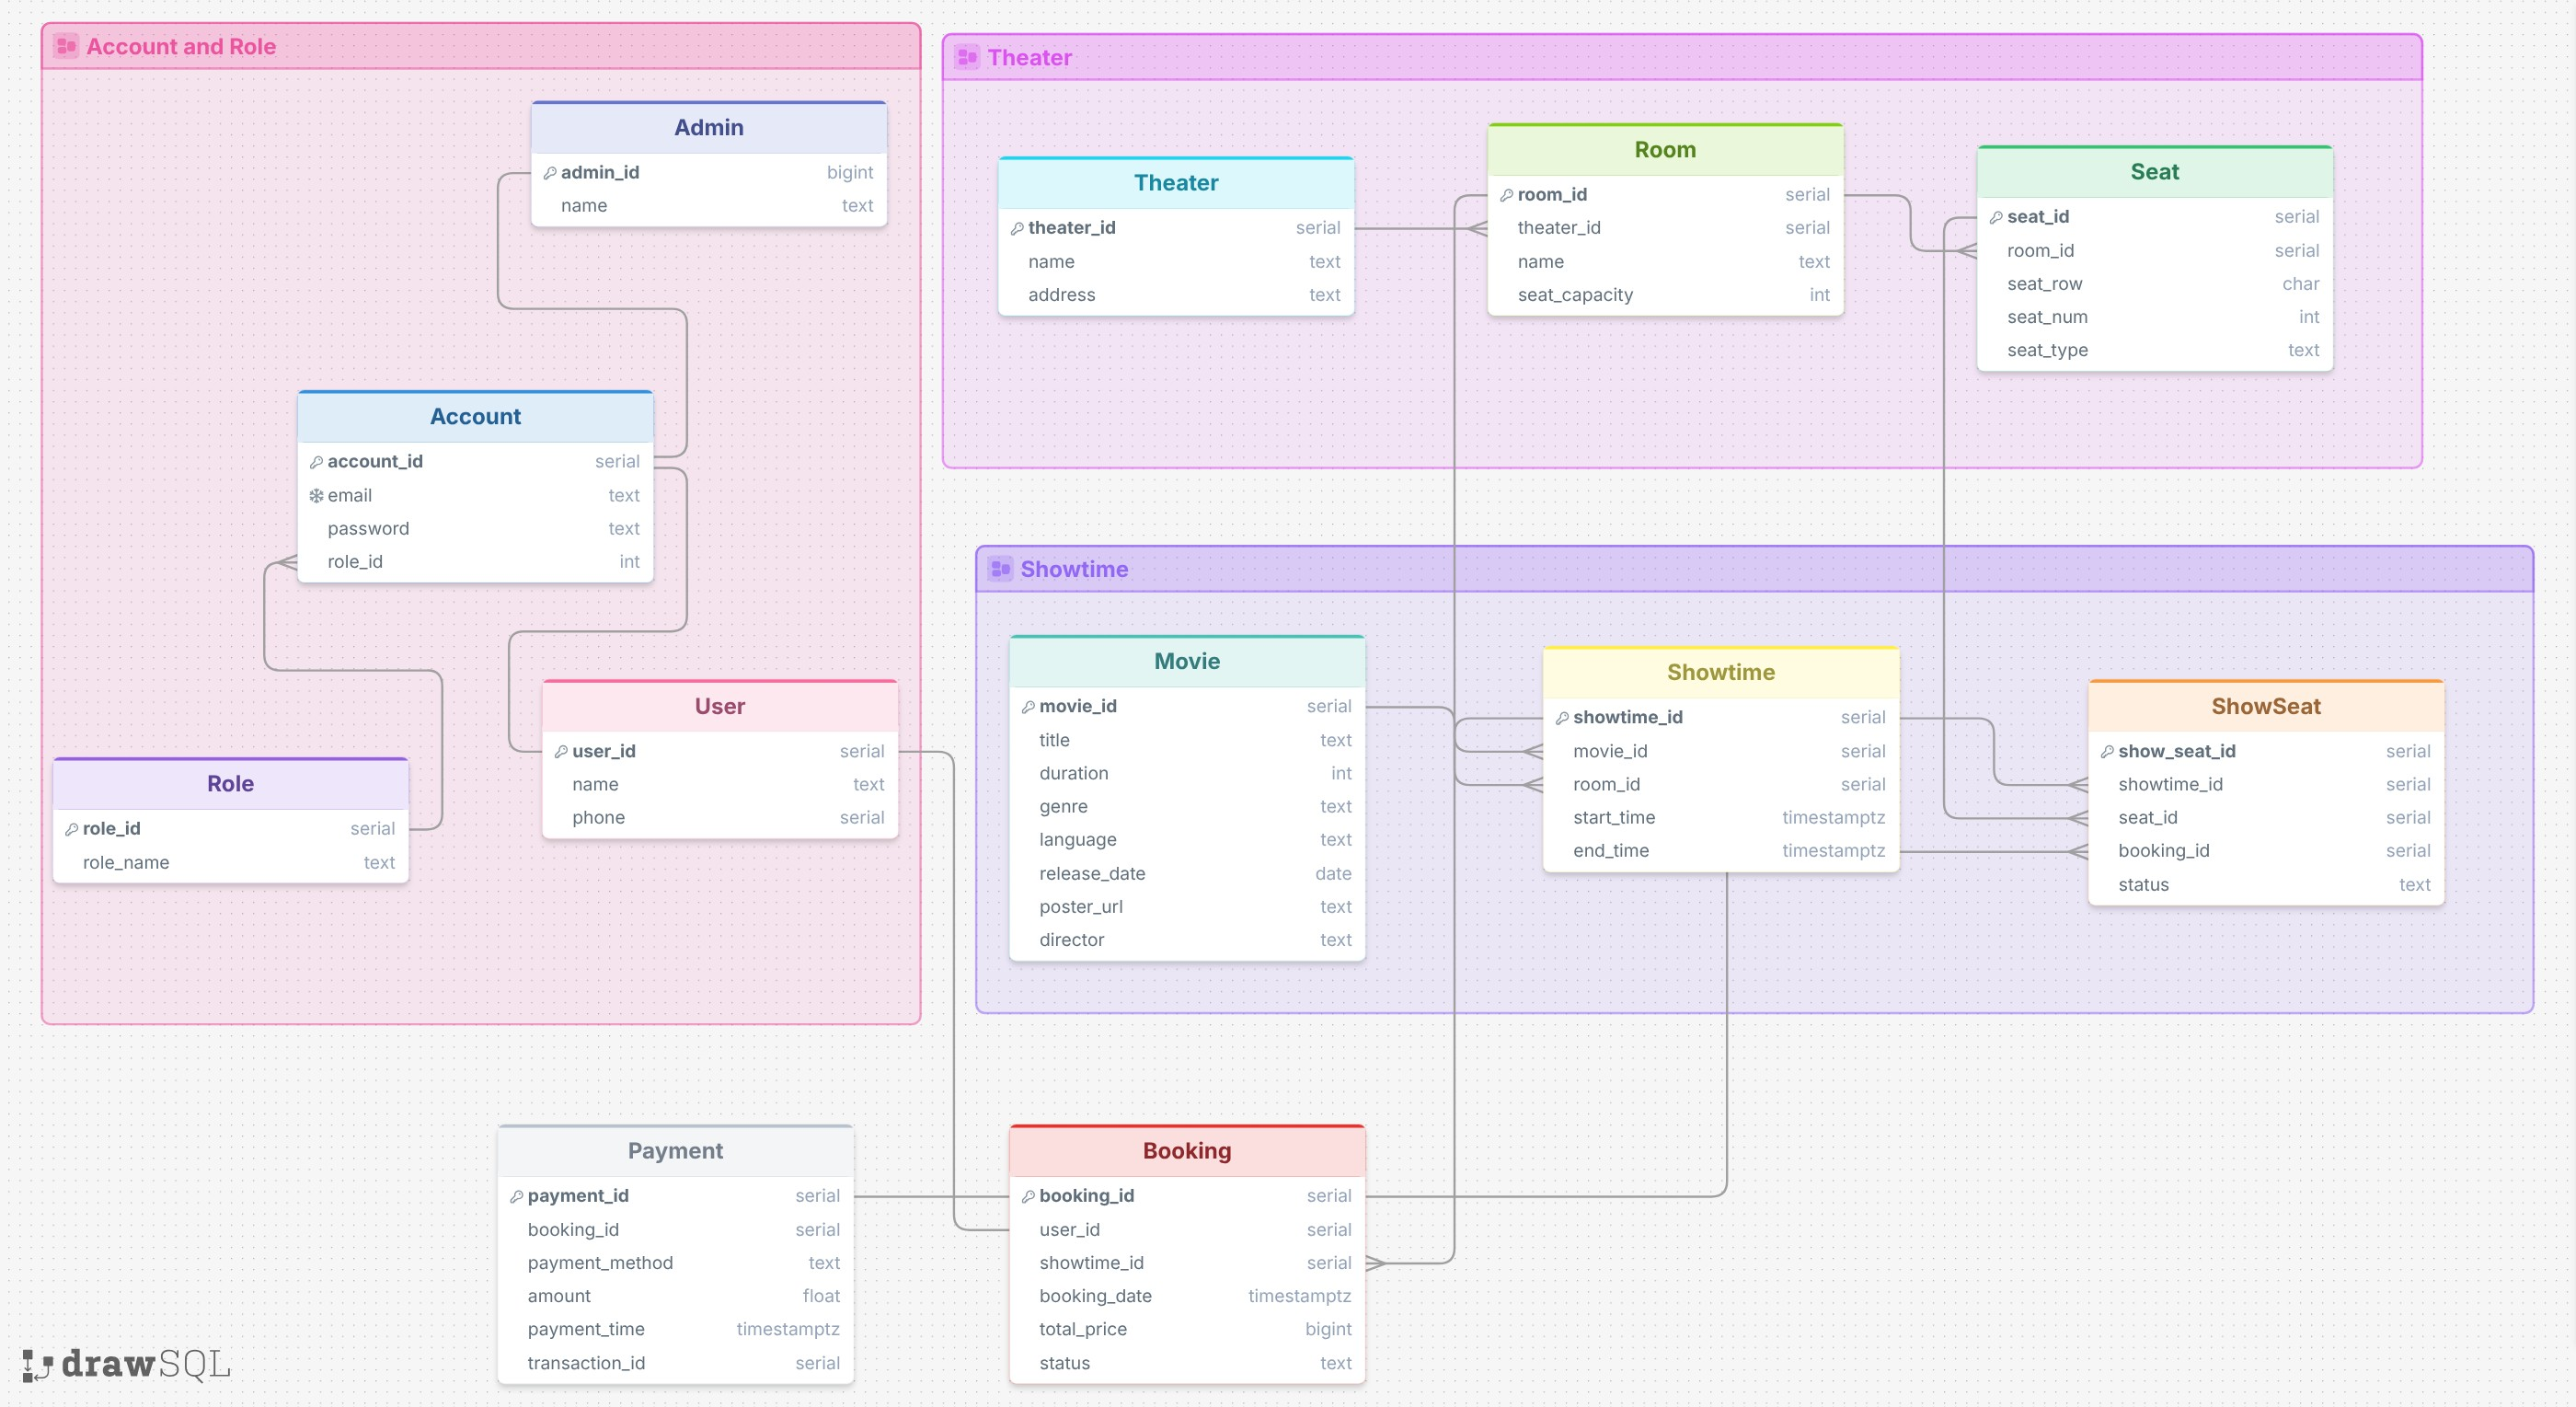
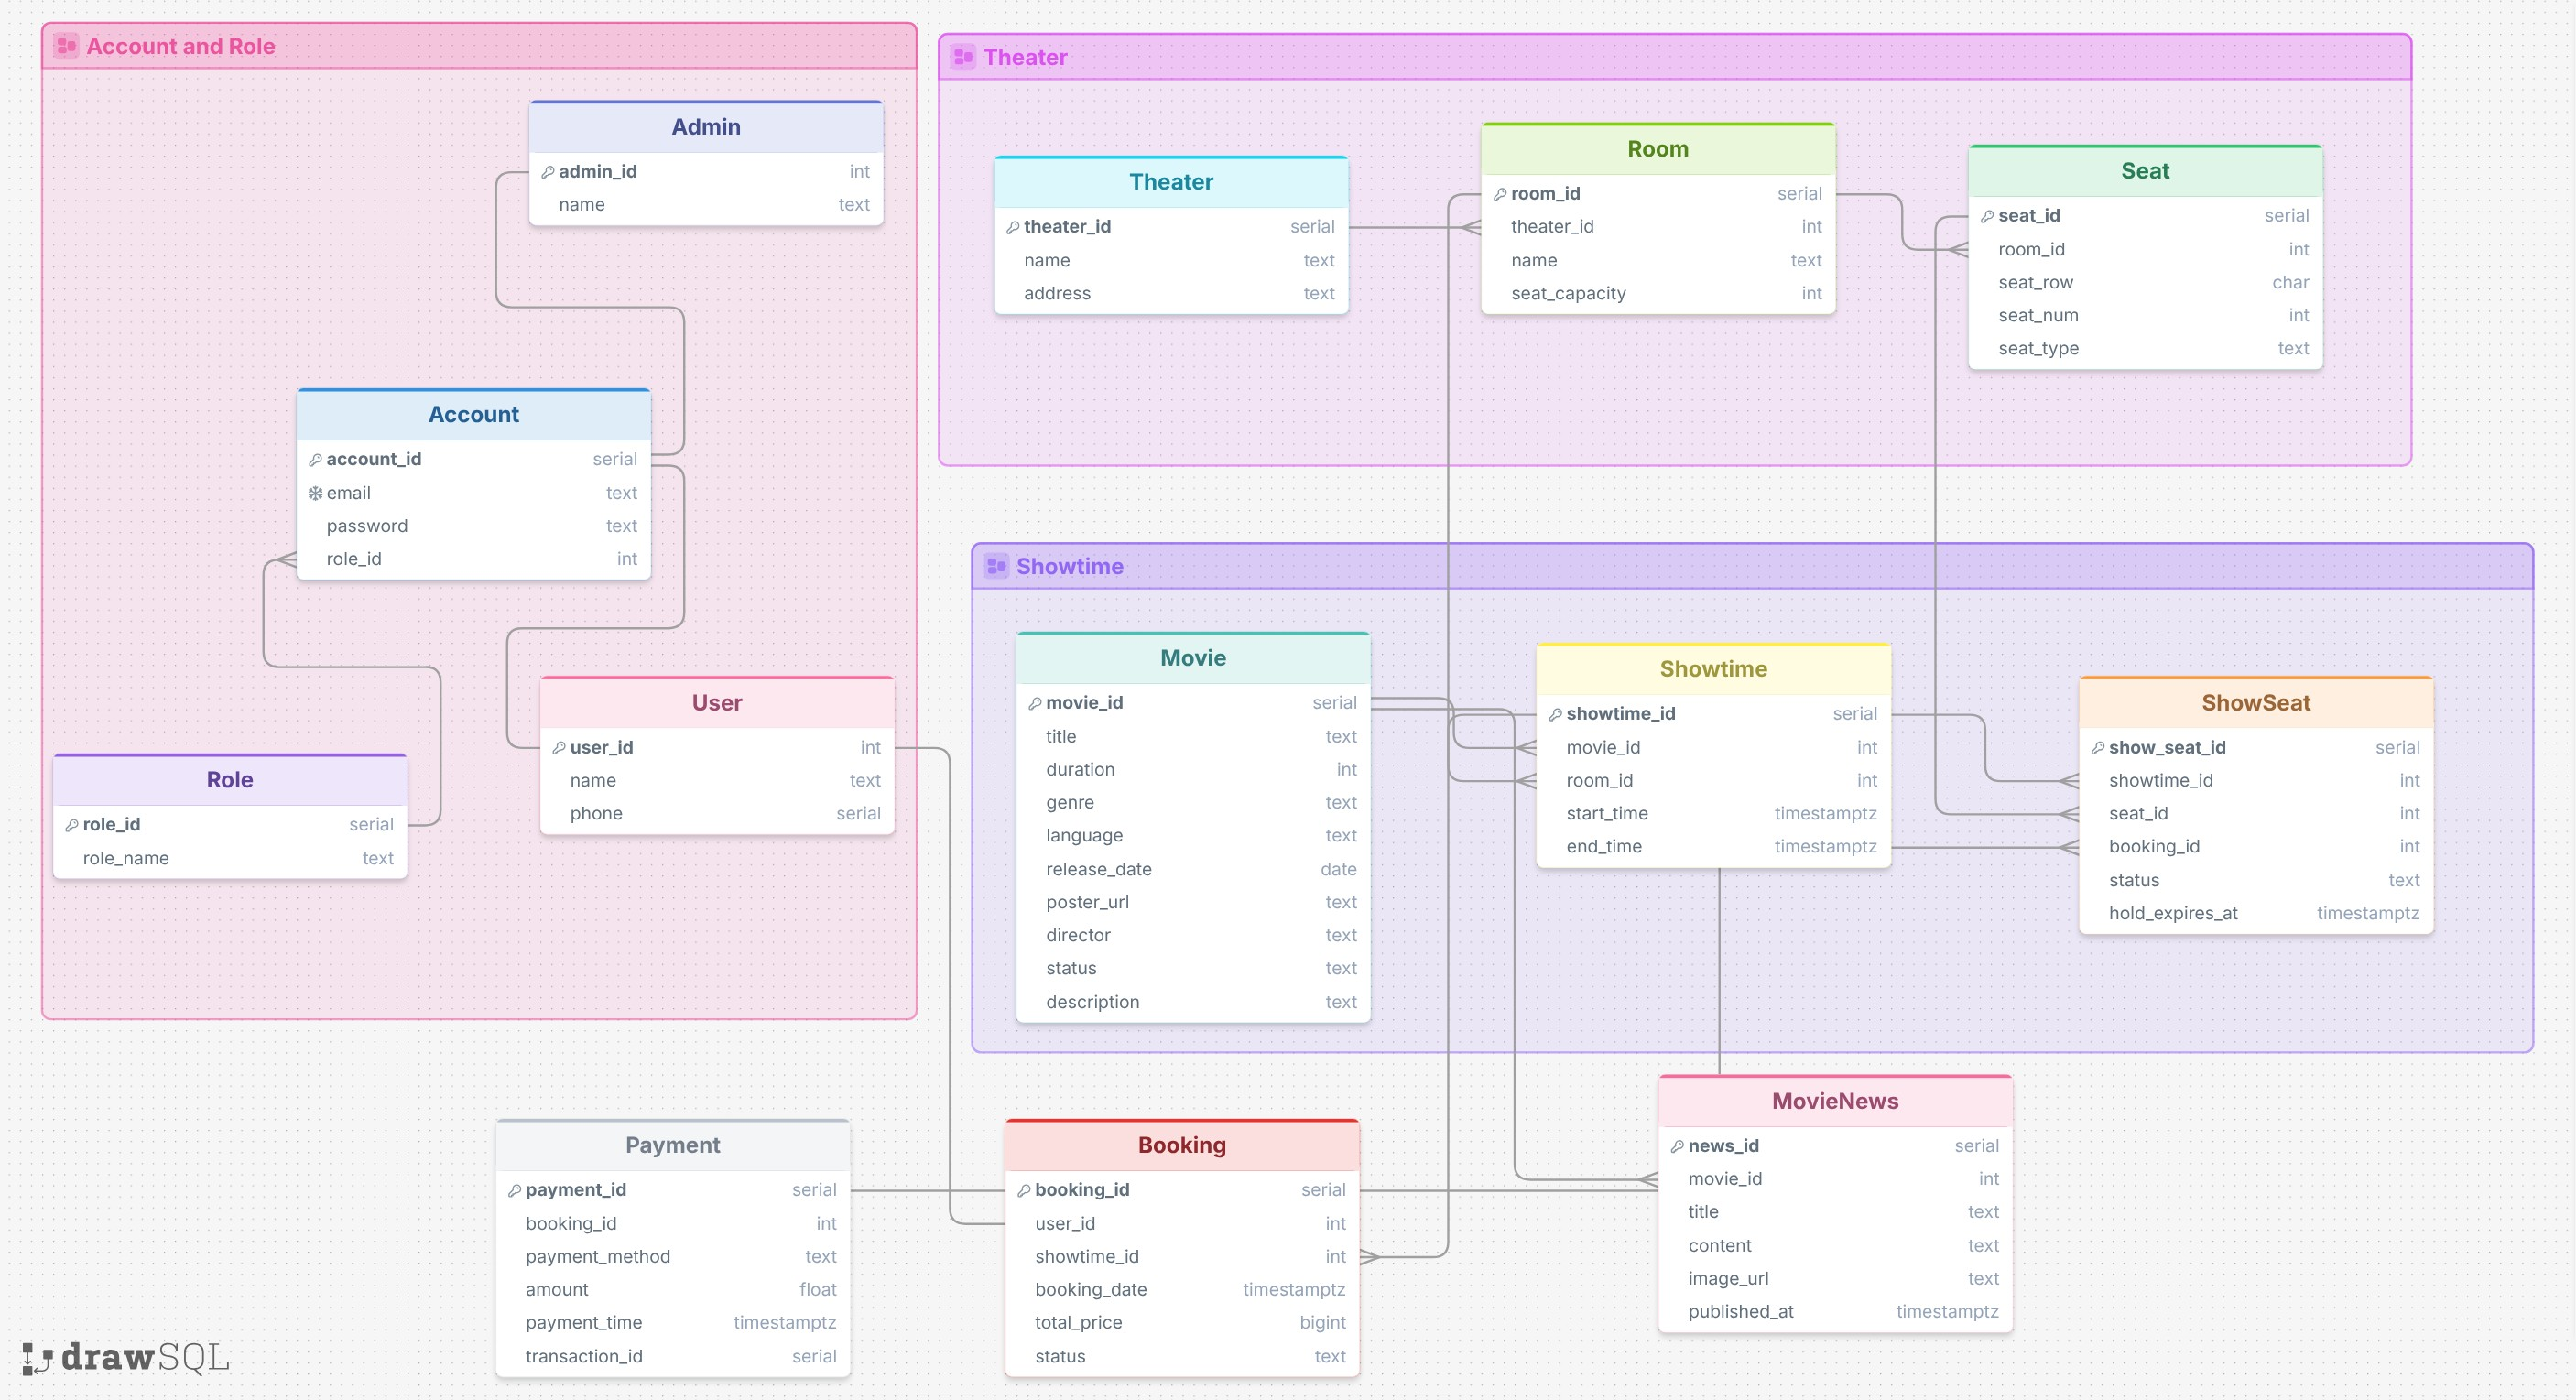
feat: update 2, 4.1 and diagrams

diff --git a/2_design.md b/2_design.md
@@ -42,15 +42,18 @@ Reviewed by:
 * **User (Người dùng):** Đại diện cho khách hàng đã đăng ký tài khoản và tương tác với hệ thống để thực hiện đặt vé.
 * **Admin:** Đại diện cho người vận hành hệ thống, quản lý phim, suất chiếu và doanh thu của rạp.
 * **Booking:** Đại diện cho một giao dịch giữ chỗ thành công của khách hàng cho các vị trí ghế cụ thể trong một suất chiếu, bao gồm cả thông tin trạng thái thanh toán.
+* **News**: Đại diện cho các bài viết, tin tức hoặc sự kiện liên quan đến bộ phim do rạp đăng tải.
 
 ### 2. Phân tích Mối quan hệ:
 * **Theater sở hữu Room (Mối quan hệ 1:N):** Một rạp chiếu có thể có nhiều phòng chiếu phim bên trong, nhưng mỗi phòng chiếu bắt buộc chỉ thuộc về quản lý của một rạp duy nhất.
 * **Room chứa Seat (Mối quan hệ 1:N):** Một phòng chiếu sẽ chứa nhiều chiếc ghế ngồi vật lý. Mỗi chiếc ghế ngồi được gắn cố định với duy nhất một phòng chiếu.
 * **Room tổ chức Showtime (Mối quan hệ 1:N):** Một phòng chiếu có thể tổ chức nhiều suất chiếu nối đuôi nhau trong suốt cả ngày, nhưng một suất chiếu cụ thể chỉ được phép diễn ra tại một phòng chiếu duy nhất.
 * **Movie có các Showtime (Mối quan hệ 1:N):** Một bộ phim có thể được xếp lịch vào nhiều suất chiếu khác nhau để phục vụ khán giả, nhưng mỗi suất chiếu tại một thời điểm chỉ phát duy nhất một bộ phim.
+*** Movie Chứa News (Mối quan hệ 1:N)**: Một bộ phim có thể đính kèm hoặc liên kết với nhiều bài viết tin tức (News) truyền thông về phim đó.
 * **User thực hiện Booking (Mối quan hệ 1:N):** Một khách hàng có thể thực hiện nhiều giao dịch đặt vé khác nhau theo thời gian, nhưng mỗi đơn đặt vé chỉ thuộc sở hữu của duy nhất một tài khoản người dùng.
 * **Booking bao gồm Seat (Mối quan hệ 1:N):** Một giao dịch đặt vé của khách hàng có thể bao gồm một hoặc nhiều chiếc ghế được chọn cùng lúc (Ví dụ: Đặt vé theo nhóm, đi xem phim theo cặp). Các chiếc ghế này sẽ được khóa trạng thái đi kèm với mã đơn đặt vé đó trong suốt suất chiếu diễn ra.
-* **Admin (Mối quan hệ 1:N):** Quản trị viên có thể tạo và quản lý nhiều Phim (`Movie`), nhiều Suất chiếu (`Showtime`) trên hệ thống.
+* **Admin (Mối quan hệ 1:N):** Quản trị viên có thể tạo và quản lý nhiều Phim (`Movie`), nhiều Suất chiếu (`Showtime`), nhiều Tin tức của phim (`News`) trên hệ thống.
+
 
 ## 3. Architectural Design
 
@@ -177,80 +180,71 @@ Reviewed by: 23120060 - Trần Kim Ngân
 
 
 ### Bảng `Theater` (Cụm rạp)
-*Ý nghĩa:* Quản lý thông tin các chi nhánh rạp phim trong chuỗi hệ thống CineBook.
-
-| Tên thuộc tính| Kiểu dữ liệu | Ràng buộc khóa | Ràng buộc giá trị | Giải thích thuộc tính|
+| Tên thuộc tính | Kiểu dữ liệu | Ràng buộc khóa | Ràng buộc giá trị | Giải thích thuộc tính |
 | :--- | :--- | :--- | :--- | :--- |
 | `theater_id` | SERIAL | PK | NOT NULL, UNIQUE | Mã định danh tự động tăng của cụm rạp. |
-| `name` | TEXT | Không | NOT NULL | Tên hiển thị của cụm rạp (Ví dụ: CineBook Nguyễn Du). |
-| `address` | TEXT | Không | NOT NULL | Địa chỉ vật lý chi tiết của rạp. |
-
----
+| `name` | TEXT | Không | NOT NULL | Tên hiển thị của cụm rạp. |
+| `address` | TEXT | Không | NOT NULL | Địa chỉ chi tiết của rạp. |
 
 ### Bảng `Room` (Phòng chiếu)
-*Ý nghĩa:* Quản lý các phòng chiếu phim vật lý thuộc một cụm rạp cụ thể.
-
-| Tên thuộc tính| Kiểu dữ liệu | Ràng buộc khóa | Ràng buộc giá trị | Giải thích thuộc tính|
+| Tên thuộc tính | Kiểu dữ liệu | Ràng buộc khóa | Ràng buộc giá trị | Giải thích thuộc tính |
 | :--- | :--- | :--- | :--- | :--- |
 | `room_id` | SERIAL | PK | NOT NULL, UNIQUE | Mã định danh tự động tăng của phòng chiếu. |
-| `theater_id` | SERIAL | FK | NOT NULL, Refs `Theater(theater_id)` | Xác định phòng chiếu này thuộc cụm rạp nào. |
-| `name` | TEXT | Không | NOT NULL | Tên phòng chiếu (Ví dụ: 'Phòng 01', 'IMAX 3D'). |
-| `seat_capacity` | INT | Không | NOT NULL, > 0 | Tổng số lượng ghế tối đa mà phòng chứa được. |
-
----
+| `theater_id` | INT | FK | NOT NULL, Refs `Theater(theater_id)` | Thuộc về cụm rạp nào. |
+| `name` | TEXT | Không | NOT NULL | Tên phòng chiếu. |
+| `seat_capacity` | INT | Không | NOT NULL, > 0 | Tổng số lượng ghế tối đa. |
 
 ### Bảng `Seat` (Ghế ngồi cố định)
-*Ý nghĩa:* Định nghĩa sơ đồ vị trí ghế vật lý tĩnh bên trong từng phòng chiếu (Sơ đồ cứng).
-
-| Tên thuộc tính| Kiểu dữ liệu | Ràng buộc khóa | Ràng buộc giá trị | Giải thích thuộc tính|
+| Tên thuộc tính | Kiểu dữ liệu | Ràng buộc khóa | Ràng buộc giá trị | Giải thích thuộc tính |
 | :--- | :--- | :--- | :--- | :--- |
-| `seat_id` | SERIAL | PK | NOT NULL, UNIQUE | Mã định danh tự động tăng của chiếc ghế vật lý. |
-| `room_id` | SERIAL | FK | NOT NULL, Refs `Room(room_id)` | Xác định ghế này nằm cố định ở phòng nào. |
-| `seat_row` | CHAR(2) | Không | NOT NULL | Ký hiệu hàng ghế (Ví dụ: 'A', 'B', 'K'). |
-| `seat_num` | INT | Không | NOT NULL, > 0 | Số thứ tự của ghế trên hàng đó (Ví dụ: 1, 2, 11). |
-| `seat_type` | TEXT | Không | NOT NULL, DEFAULT 'Standard' | Phân loại phân khúc ghế ('Standard', 'VIP', 'Double'). |
-
----
+| `seat_id` | SERIAL | PK | NOT NULL, UNIQUE | Mã định danh tự động tăng của chiếc ghế. |
+| `room_id` | INT | FK | NOT NULL, Refs `Room(room_id)` | Ghế này nằm cố định ở phòng nào. |
+| `seat_row` | CHAR(2) | Không | NOT NULL | Ký hiệu hàng ghế (Ví dụ: 'A', 'B'). |
+| `seat_num` | INT | Không | NOT NULL, > 0 | Số thứ tự của ghế. |
+| `seat_type` | TEXT | Không | NOT NULL | Phân loại ghế ('Standard', 'VIP'). |
 
 ### Bảng `Movie` (Phim)
-*Ý nghĩa:* Kho dữ liệu lưu trữ thông tin các bộ phim được trình chiếu tại rạp.
-
-| Tên thuộc tính| Kiểu dữ liệu | Ràng buộc khóa | Ràng buộc giá trị | Giải thích thuộc tính|
+| Tên thuộc tính | Kiểu dữ liệu | Ràng buộc khóa | Ràng buộc giá trị | Giải thích thuộc tính |
 | :--- | :--- | :--- | :--- | :--- |
 | `movie_id` | SERIAL | PK | NOT NULL, UNIQUE | Mã định danh tự động tăng của bộ phim. |
 | `title` | TEXT | Không | NOT NULL | Tên của bộ phim. |
-| `duration` | INT | Không | NOT NULL, > 0 | Thời lượng của phim (Tính bằng phút). |
-| `genre` | TEXT | Không | Cho phép NULL | Thể loại phim (Hành động, Hài, Kinh dị...). |
-| `language` | TEXT | Không | NOT NULL | Ngôn ngữ phim (Phụ đề tiếng Việt, Lồng tiếng...). |
-| `release_date` | DATE | Không | Cho phép NULL | Ngày bộ phim chính thức khởi chiếu. |
-| `poster_url` | TEXT | Không | Cho phép NULL | Đường dẫn URL đến hình ảnh poster của phim. |
-| `director` | TEXT | Không | Cho phép NULL | Tên đạo diễn bộ phim. |
+| `duration` | INT | Không | NOT NULL, > 0 | Thời lượng của phim (phút). |
+| `genre` | TEXT | Không | Cho phép NULL | Thể loại phim. |
+| `language` | TEXT | Không | NOT NULL | Ngôn ngữ phim. |
+| `release_date` | DATE | Không | Cho phép NULL | Ngày bộ phim khởi chiếu. |
+| `poster_url` | TEXT | Không | Cho phép NULL | URL hình ảnh poster của phim. |
+| `director` | TEXT | Không | Cho phép NULL | Tên đạo diễn. |
+| `status` | TEXT | Không | NOT NULL | Trạng thái phát hành (Đang chiếu, Sắp chiếu). |
+| `description` | TEXT | Không | Cho phép NULL | Tóm tắt nội dung phim. |
 
----
+### Bảng `MovieNews` (Tin tức phim)
+| Tên thuộc tính | Kiểu dữ liệu | Ràng buộc khóa | Ràng buộc giá trị | Giải thích thuộc tính |
+| :--- | :--- | :--- | :--- | :--- |
+| `news_id` | SERIAL | PK | NOT NULL, UNIQUE | Mã định danh tự động tăng của bài viết. |
+| `movie_id` | INT | FK | Cho phép NULL, Refs `Movie(movie_id)` | Tin tức thuộc về phim nào. |
+| `title` | TEXT | Không | NOT NULL | Tiêu đề tin tức. |
+| `content` | TEXT | Không | NOT NULL | Nội dung chi tiết. |
+| `image_url` | TEXT | Không | Cho phép NULL | Hình ảnh minh họa. |
+| `published_at`| TIMESTAMPTZ | Không | NOT NULL, DEFAULT NOW() | Ngày giờ xuất bản. |
 
 ### Bảng `Showtime` (Suất chiếu)
-*Ý nghĩa:* Lịch chiếu cụ thể của một bộ phim tại một phòng chiếu vào một khung giờ nhất định.
-
-| Tên thuộc tính| Kiểu dữ liệu | Ràng buộc khóa | Ràng buộc giá trị | Giải thích thuộc tính |
+| Tên thuộc tính | Kiểu dữ liệu | Ràng buộc khóa | Ràng buộc giá trị | Giải thích thuộc tính |
 | :--- | :--- | :--- | :--- | :--- |
 | `showtime_id` | SERIAL | PK | NOT NULL, UNIQUE | Mã định danh tự động tăng của suất chiếu. |
-| `movie_id` | SERIAL | FK | NOT NULL, Refs `Movie(movie_id)` | Xác định suất chiếu này phát bộ phim nào. |
-| `room_id` | SERIAL | FK | NOT NULL, Refs `Room(room_id)` | Xác định suất chiếu diễn ra tại phòng nào. |
-| `start_time` | TIMESTAMPTZ | Không | NOT NULL | Thời gian bắt đầu suất chiếu (Bao gồm múi giờ). |
-| `end_time` | TIMESTAMPTZ | Không | NOT NULL | Thời gian dự kiến kết thúc suất chiếu. |
-
----
+| `movie_id` | INT | FK | NOT NULL, Refs `Movie(movie_id)` | Suất chiếu phát bộ phim nào. |
+| `room_id` | INT | FK | NOT NULL, Refs `Room(room_id)` | Suất chiếu diễn ra tại phòng nào. |
+| `start_time` | TIMESTAMPTZ | Không | NOT NULL | Thời gian bắt đầu. |
+| `end_time` | TIMESTAMPTZ | Không | NOT NULL | Thời gian kết thúc. |
 
 ### Bảng `ShowSeat` (Trạng thái ghế theo suất)
-*Ý nghĩa:* Quản lý trạng thái động (Trống/Đang giữ/Đã bán) của từng chiếc ghế trong từng suất chiếu cụ thể.
-
-| Tên thuộc tính| Kiểu dữ liệu | Ràng buộc khóa | Ràng buộc giá trị | Giải thích thuộc tính|
+| Tên thuộc tính | Kiểu dữ liệu | Ràng buộc khóa | Ràng buộc giá trị | Giải thích thuộc tính |
 | :--- | :--- | :--- | :--- | :--- |
-| `show_seat_id`| SERIAL | PK | NOT NULL, UNIQUE | Mã định danh tự động tăng trạng thái ghế theo suất. |
-| `showtime_id` | SERIAL | FK | NOT NULL, Refs `Showtime(showtime_id)`| Thuộc về suất chiếu cụ thể nào. |
-| `seat_id` | SERIAL | FK | NOT NULL, Refs `Seat(seat_id)` | Gắn với chiếc ghế vật lý cố định nào. |
-| `booking_id` | SERIAL | FK | Cho phép NULL | Mã đơn hàng liên kết sau khi đặt thành công (Nối sang bảng Booking). |
-| `status` | TEXT | Không | NOT NULL, DEFAULT 'Available' | Trạng thái ghế hiện tại ('Available', 'Holding', 'Sold'). |
+| `show_seat_id`| SERIAL | PK | NOT NULL, UNIQUE | Mã định danh tự động tăng trạng thái ghế. |
+| `showtime_id` | INT | FK | NOT NULL, Refs `Showtime(showtime_id)`| Thuộc về suất chiếu nào. |
+| `seat_id` | INT | FK | NOT NULL, Refs `Seat(seat_id)` | Gắn với ghế vật lý nào. |
+| `booking_id` | INT | FK | Cho phép NULL, Refs `Booking(booking_id)`| Liên kết mã đơn hàng sau khi đặt thành công. |
+| `status` | TEXT | Không | NOT NULL | Trạng thái ('Available', 'Holding', 'Sold'). |
+| `hold_expires_at`| TIMESTAMPTZ| Không | Cho phép NULL | Thời gian hết hạn giữ chỗ (phục vụ Redis). |
 
 ## 5. UI/UX
 